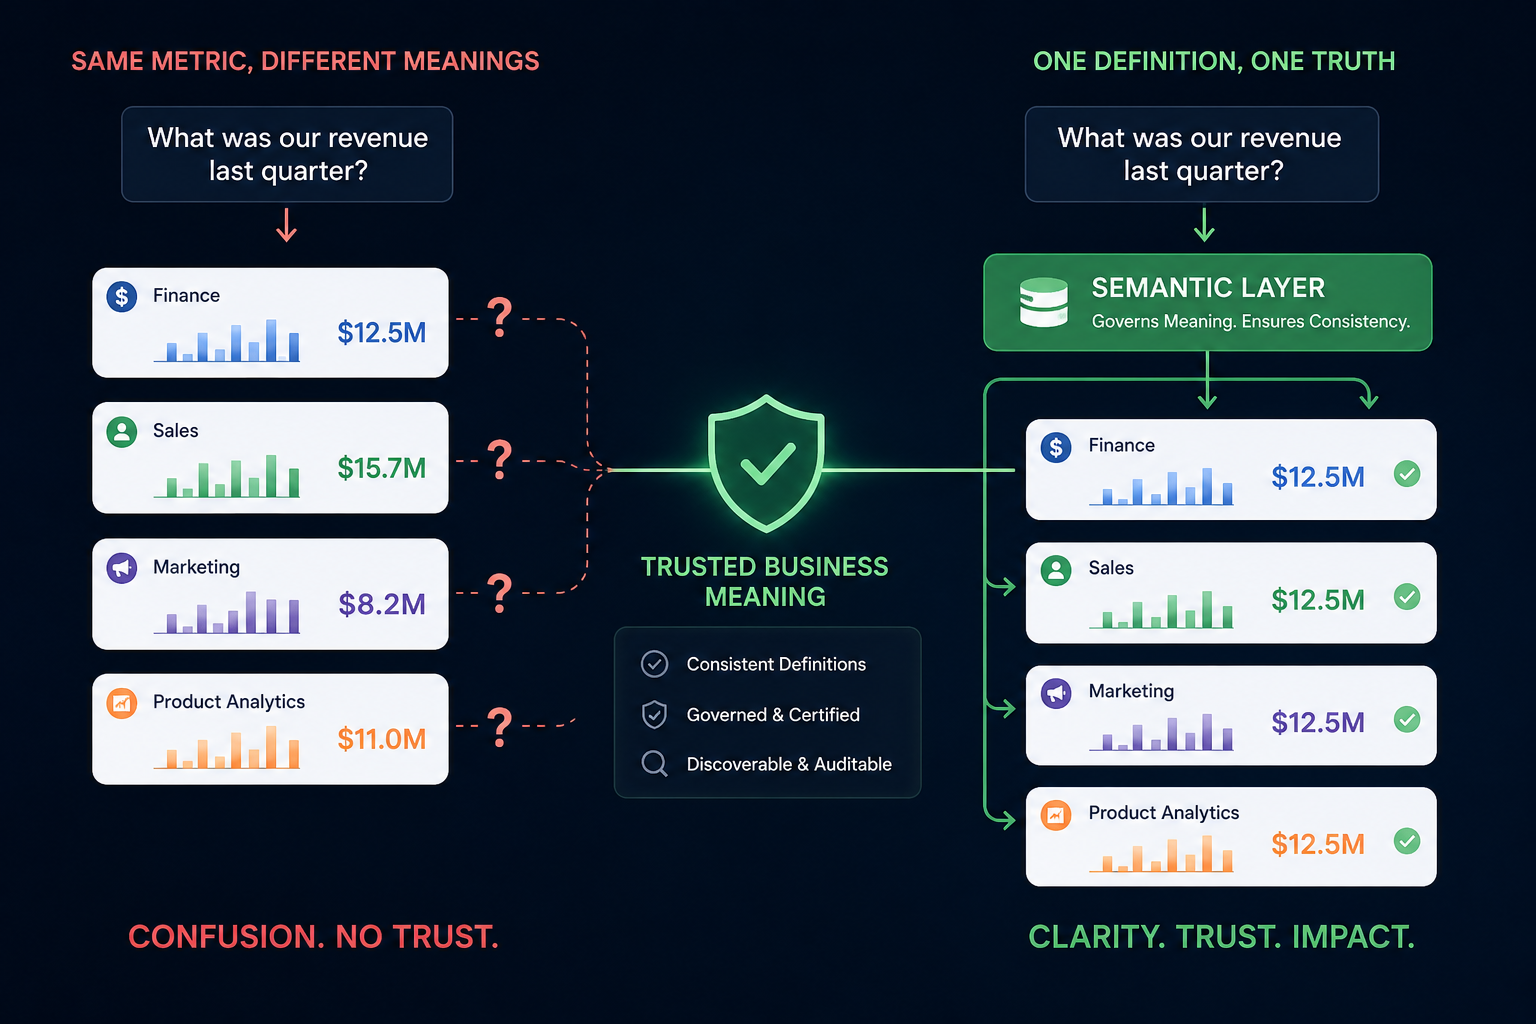
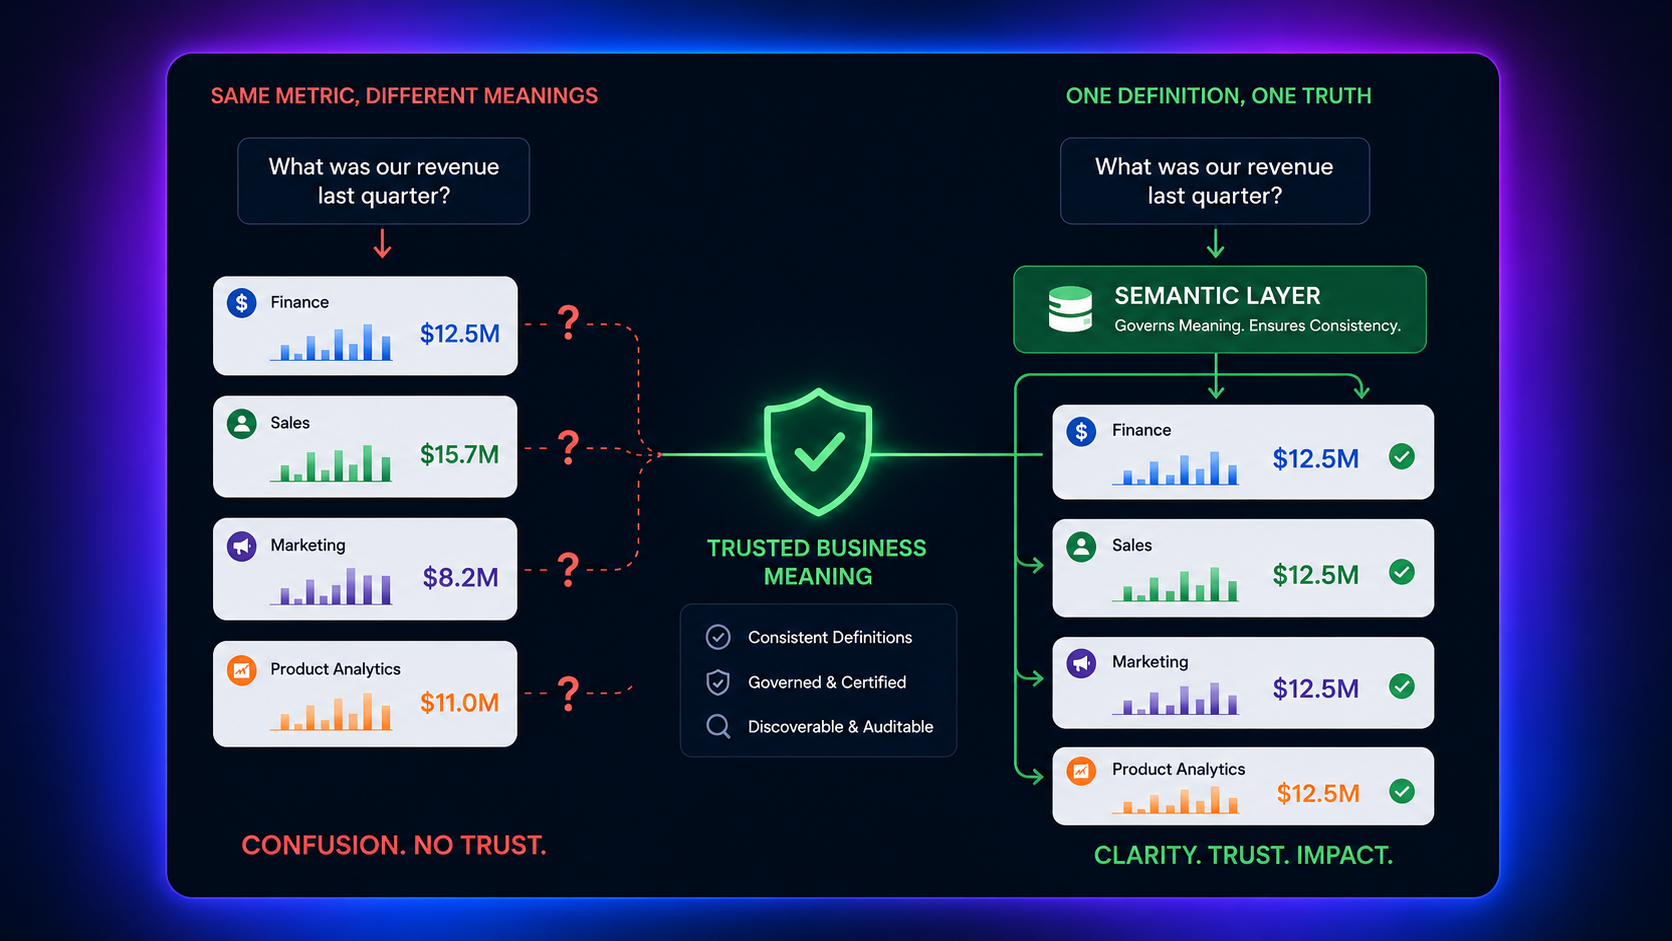
Update portfolio project images and visitor counter

diff --git a/components/visitor-counter.tsx b/components/visitor-counter.tsx
@@ -1,0 +1,39 @@
+"use client"
+
+import { useEffect, useRef, useState } from "react"
+
+const COUNTER_URL = "https://api.counterapi.dev/v1/nishant-portfolio/page-visits/up"
+
+export function VisitorCounter() {
+  const hasCounted = useRef(false)
+  const [visits, setVisits] = useState<number | null>(null)
+
+  useEffect(() => {
+    if (hasCounted.current) return
+    hasCounted.current = true
+
+    fetch(COUNTER_URL)
+      .then((response) => {
+        if (!response.ok) throw new Error("Visitor counter unavailable")
+        return response.json()
+      })
+      .then((result) => {
+        const count = result?.count ?? result?.data?.count
+        if (typeof count === "number") setVisits(count)
+      })
+      .catch(() => {
+        // Keep the compact counter hidden if the external service is unavailable.
+      })
+  }, [])
+
+  if (visits === null) return null
+
+  return (
+    <div
+      className="mt-2 flex justify-center px-2 font-mono text-[10px] tracking-[0.16em] text-neutral-400 dark:text-neutral-500"
+      aria-label={`${visits} portfolio visits`}
+    >
+      {String(visits).padStart(6, "0")}
+    </div>
+  )
+}

diff --git a/app/page.tsx b/app/page.tsx
@@ -10,6 +10,7 @@ import { Dock } from "@/components/dock";
 import { SkillsDraggable } from "@/components/skills-draggable";
 import { ThemeToggle } from "@/components/theme-toggle";
 import { ContactForm } from "@/components/contact-form";
+import { VisitorCounter } from "@/components/visitor-counter";
 import {
   FadeInText,
   SlideUp,
@@ -516,6 +517,7 @@ export default function Page() {
            
       designed and developed by&nbsp;<a href="https://x.com/monk_isolated" className="text-blue-400 hover:text-blue-500"> ~Nishant</a>
       </div>
+      <VisitorCounter />
         
       </div>
 
